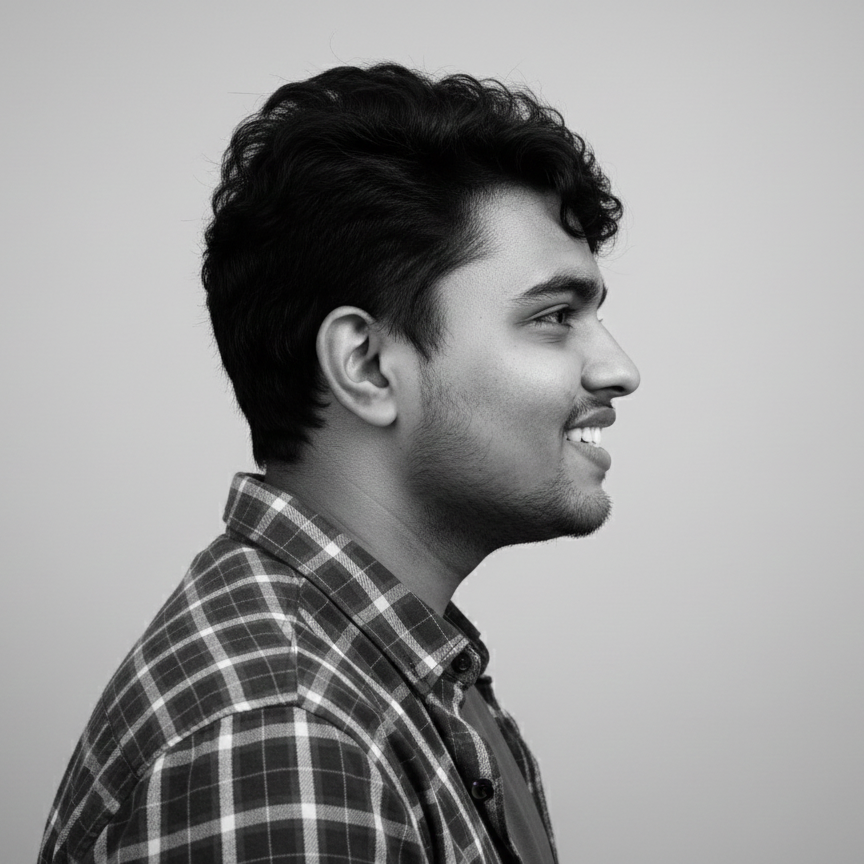
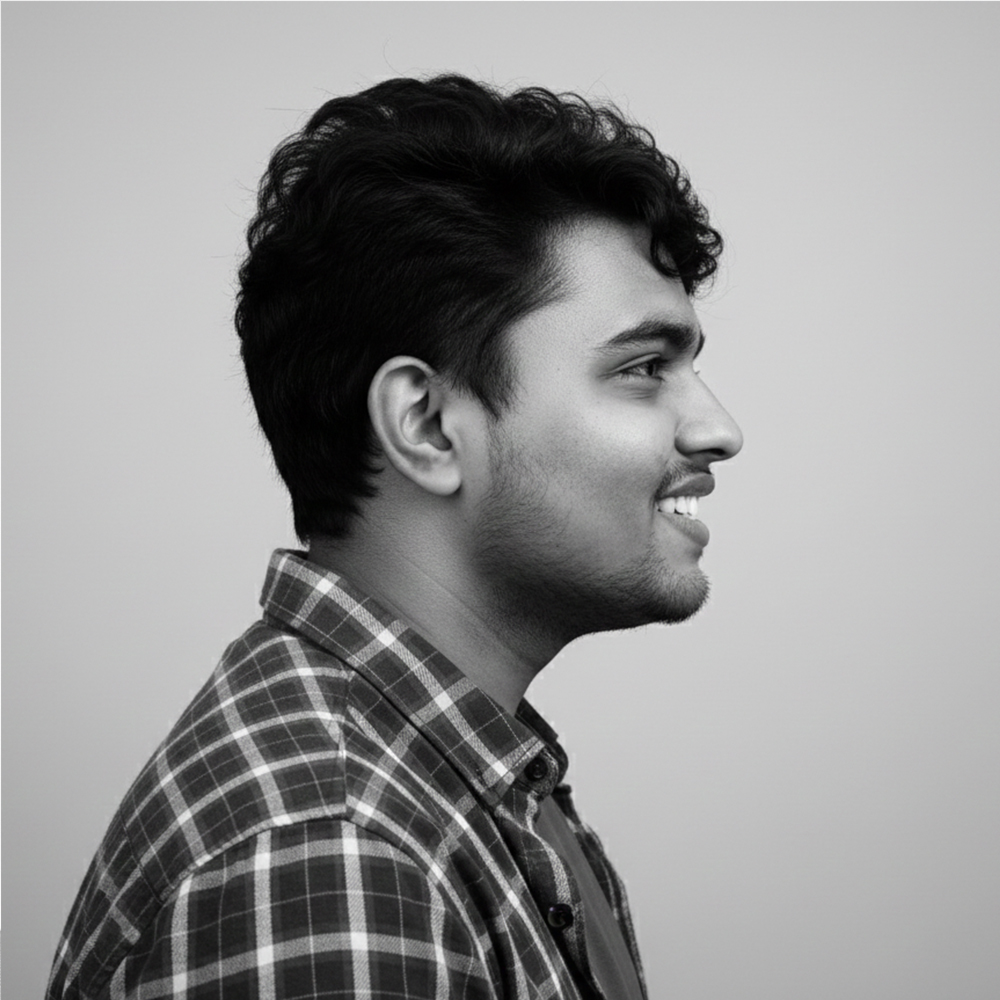
change pic size and add about section

diff --git a/index.html b/index.html
@@ -80,11 +80,49 @@
         <div class="section__pic-container">
           <img
             src="./assets/about-pic.png"
-            alt="Profile Pictures"
+            alt="Profile picture"
             class="about-pic"
           />
         </div>
+        <div class="about-details-container">
+          <div class="about-containers">
+            <div class="details-container">
+              <img
+                src="./assets/experience.png"
+                alt="Experience icon"
+                class="icon"
+              />
+              <h3>Experience</h3>
+              <p>Academic Projects<br />Aspiring software engineer</p>
+            </div>
+            <div class="details-container">
+              <img
+                src="./assets/education.png"
+                alt="Education icon"
+                class="icon"
+              />
+              <h3>Education</h3>
+              <p>BCA Bachelors Degree(CGPA: 7.5)</p>
+            </div>
+          </div>
+          <div class="text-container">
+            <p>
+              I am a final-year BCA student at Amity University, Noida, aspiring
+              to become a software engineer. I enjoy solving problems and
+              building reliable, scalable applications. Through academic and
+              personal projects, I am strengthening my foundations in
+              programming, software development, and modern technologies while
+              preparing for entry-level software engineering roles.
+            </p>
+          </div>
+        </div>
       </div>
+      <img
+        src="./assets/arrow.png"
+        alt="Arrow icon"
+        class="icon arrow"
+        onclick="location.href='./#experience'"
+      />
     </section>
     <script src="script.js"></script>
   </body>

diff --git a/style.css b/style.css
@@ -246,3 +246,56 @@ section {
 .btn-container {
   gap: 1rem;
 }
+
+/* About section */
+
+#about {
+  position: relative;
+}
+
+.about-containers {
+  gap: 2rem;
+  margin-bottom: 2rem;
+  margin-top: 2rem;
+}
+
+.about-details-container {
+  justify-content: center;
+  flex-direction: column;
+}
+
+.about-containers,
+.about-details-container {
+  display: flex;
+}
+
+.about-pic {
+  border-radius: 2rem;
+}
+
+.arrow {
+  position: absolute;
+  right: -5rem;
+  bottom: 2.5rem;
+}
+
+.details-container {
+  padding: 1.5rem;
+  flex: 1;
+  background: white;
+  border-radius: 2rem;
+  border: rgb(53, 53, 53) 0.1rem solid;
+  border-color: rgb(163, 163, 163);
+  text-align: center;
+}
+
+.section-container {
+  gap: 4rem;
+  height: 80%;
+}
+
+.section__pic-container {
+  height: 400px;
+  width: 400px;
+  margin: auto 0;
+}
